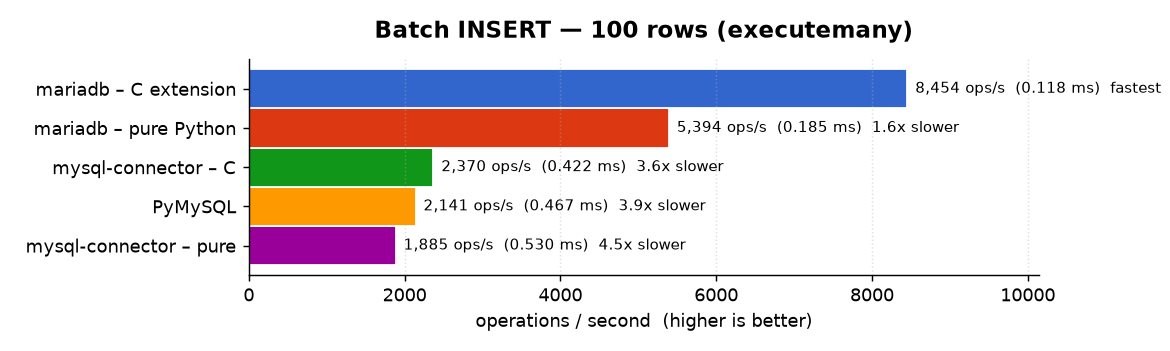
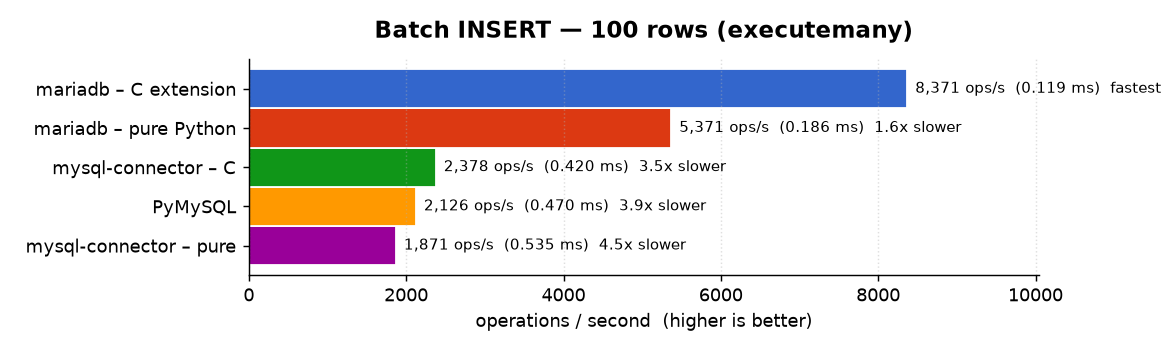
[misc] refresh benchmark results

diff --git a/docs/benchmarks.md b/docs/benchmarks.md
@@ -13,20 +13,20 @@ with the commands under [Reproducing](#reproducing).
 ## TL;DR
 
 The `mariadb` **C extension is the fastest driver in almost every benchmark**;
-the only exceptions are the bare `DO` round-trips (no result set to parse),
-where the pure-Python driver matches it. The pure-Python `mariadb`
+the only exception is the bare `DO 1` round-trip (no result set to parse),
+where the pure-Python driver edges it. The pure-Python `mariadb`
 implementation is the **fastest pure-Python driver in every benchmark**, and on
 result-set parsing it now **matches or beats MySQL Connector/Python's C
-extension** — e.g. `SELECT 100 columns` (7,435 vs 7,303 ops/s, text). Selected
+extension** — e.g. `SELECT 100 columns` (7,226 vs 6,847 ops/s, text). Selected
 results (operations per second, higher is better):
 
 | Workload | mariadb (C) | vs pure-Python `mariadb` | vs MySQL Connector/C |
 |---|---|---|---|
-| `SELECT 1` (simple query) | **85,508 ops/s** | 1.6× faster | 2.4× faster |
-| `SELECT 1000 rows` (binary) | **6,259 ops/s** | 7.7× faster | 4.2× faster |
-| `SELECT 100 columns` (binary) | **13,624 ops/s** | 2.2× faster | 2.5× faster |
-| `DO 1000 params` (binary) | **2,721 ops/s** | 2.0× faster | 36× faster |
-| Batch `INSERT` (100 rows) | **8,454 ops/s** | 1.6× faster | 3.6× faster |
+| `SELECT 1` (simple query) | **84,748 ops/s** | 1.7× faster | 2.5× faster |
+| `SELECT 1000 rows` (binary) | **6,159 ops/s** | 7.4× faster | 4.3× faster |
+| `SELECT 100 columns` (binary) | **13,600 ops/s** | 2.3× faster | 2.5× faster |
+| `DO 1000 params` (binary) | **2,787 ops/s** | 2.0× faster | 37× faster |
+| Batch `INSERT` (100 rows) | **8,371 ops/s** | 1.6× faster | 3.5× faster |
 
 ## Environment
 
@@ -49,16 +49,16 @@ results (operations per second, higher is better):
 
 | Benchmark | mariadb – C extension | mariadb – pure Python | PyMySQL | mysql-connector – C | mysql-connector – pure |
 |---|---|---|---|---|---|
-| DO 1 — command round-trip | 101,753 ops/s (1.0x) | 103,308 ops/s **(fastest)** | 91,890 ops/s (1.1x) | 52,438 ops/s (2.0x) | 31,414 ops/s (3.3x) |
-| SELECT 1 — simple query | 85,508 ops/s **(fastest)** | 52,596 ops/s (1.6x) | 43,679 ops/s (2.0x) | 34,932 ops/s (2.4x) | 18,266 ops/s (4.7x) |
-| INSERT — mixed types (single row) | 34,305 ops/s **(fastest)** | 30,269 ops/s (1.1x) | 26,165 ops/s (1.3x) | 30,360 ops/s (1.1x) | 17,693 ops/s (1.9x) |
-| Batch INSERT — 100 rows (executemany) | 8,454 ops/s **(fastest)** | 5,394 ops/s (1.6x) | 2,141 ops/s (3.9x) | 2,370 ops/s (3.6x) | 1,885 ops/s (4.5x) |
-| SELECT 1000 rows — binary protocol | 6,259 ops/s **(fastest)** | 818 ops/s (7.7x) | – | 1,490 ops/s (4.2x) | 287 ops/s (21.8x) |
-| SELECT 1000 rows — text protocol | 6,781 ops/s **(fastest)** | 1,049 ops/s (6.5x) | 541 ops/s (12.5x) | 1,633 ops/s (4.2x) | 355 ops/s (19.1x) |
-| SELECT 100 columns — binary protocol | 13,624 ops/s **(fastest)** | 6,170 ops/s (2.2x) | – | 5,511 ops/s (2.5x) | 1,230 ops/s (11.1x) |
-| SELECT 100 columns — text protocol | 18,113 ops/s **(fastest)** | 7,435 ops/s (2.4x) | 2,543 ops/s (7.1x) | 7,303 ops/s (2.5x) | 2,362 ops/s (7.7x) |
-| DO 1000 params — binary protocol | 2,721 ops/s **(fastest)** | 1,394 ops/s (2.0x) | – | 76 ops/s (35.8x) | 59 ops/s (46.2x) |
-| DO 1000 params — text protocol | 4,082 ops/s **(fastest)** | 4,066 ops/s (1.0x) | 2,187 ops/s (1.9x) | 2,870 ops/s (1.4x) | 1,100 ops/s (3.7x) |
+| DO 1 — command round-trip | 103,634 ops/s (1.0x) | 104,329 ops/s **(fastest)** | 89,333 ops/s (1.2x) | 50,807 ops/s (2.1x) | 28,999 ops/s (3.6x) |
+| SELECT 1 — simple query | 84,748 ops/s **(fastest)** | 50,886 ops/s (1.7x) | 42,994 ops/s (2.0x) | 33,837 ops/s (2.5x) | 18,129 ops/s (4.7x) |
+| INSERT — mixed types (single row) | 34,520 ops/s **(fastest)** | 30,123 ops/s (1.1x) | 26,227 ops/s (1.3x) | 29,508 ops/s (1.2x) | 17,484 ops/s (2.0x) |
+| Batch INSERT — 100 rows (executemany) | 8,371 ops/s **(fastest)** | 5,371 ops/s (1.6x) | 2,126 ops/s (3.9x) | 2,378 ops/s (3.5x) | 1,871 ops/s (4.5x) |
+| SELECT 1000 rows — binary protocol | 6,159 ops/s **(fastest)** | 837 ops/s (7.4x) | – | 1,442 ops/s (4.3x) | 281 ops/s (21.9x) |
+| SELECT 1000 rows — text protocol | 6,649 ops/s **(fastest)** | 1,017 ops/s (6.5x) | 529 ops/s (12.6x) | 1,562 ops/s (4.3x) | 340 ops/s (19.6x) |
+| SELECT 100 columns — binary protocol | 13,600 ops/s **(fastest)** | 6,013 ops/s (2.3x) | – | 5,451 ops/s (2.5x) | 1,205 ops/s (11.3x) |
+| SELECT 100 columns — text protocol | 18,028 ops/s **(fastest)** | 7,226 ops/s (2.5x) | 2,526 ops/s (7.1x) | 6,847 ops/s (2.6x) | 2,326 ops/s (7.7x) |
+| DO 1000 params — binary protocol | 2,787 ops/s **(fastest)** | 1,364 ops/s (2.0x) | – | 75 ops/s (37.1x) | 58 ops/s (48.4x) |
+| DO 1000 params — text protocol | 4,087 ops/s **(fastest)** | 4,001 ops/s (1.0x) | 2,223 ops/s (1.8x) | 2,787 ops/s (1.5x) | 1,049 ops/s (3.9x) |
 
 *(Multiplier in parentheses is how much slower than the fastest driver for that row.)*
 

diff --git a/docs/benchmarks/comparison_table.md b/docs/benchmarks/comparison_table.md
@@ -1,12 +1,12 @@
 | Benchmark | mariadb – C extension | mariadb – pure Python | PyMySQL | mysql-connector – C | mysql-connector – pure |
 |---|---|---|---|---|---|
-| DO 1 — command round-trip | 101,753 ops/s (1.0x) | 103,308 ops/s **(fastest)** | 91,890 ops/s (1.1x) | 52,438 ops/s (2.0x) | 31,414 ops/s (3.3x) |
-| SELECT 1 — simple query | 85,508 ops/s **(fastest)** | 52,596 ops/s (1.6x) | 43,679 ops/s (2.0x) | 34,932 ops/s (2.4x) | 18,266 ops/s (4.7x) |
-| INSERT — mixed types (single row) | 34,305 ops/s **(fastest)** | 30,269 ops/s (1.1x) | 26,165 ops/s (1.3x) | 30,360 ops/s (1.1x) | 17,693 ops/s (1.9x) |
-| Batch INSERT — 100 rows (executemany) | 8,454 ops/s **(fastest)** | 5,394 ops/s (1.6x) | 2,141 ops/s (3.9x) | 2,370 ops/s (3.6x) | 1,885 ops/s (4.5x) |
-| SELECT 1000 rows — binary protocol | 6,259 ops/s **(fastest)** | 818 ops/s (7.7x) | – | 1,490 ops/s (4.2x) | 287 ops/s (21.8x) |
-| SELECT 1000 rows — text protocol | 6,781 ops/s **(fastest)** | 1,049 ops/s (6.5x) | 541 ops/s (12.5x) | 1,633 ops/s (4.2x) | 355 ops/s (19.1x) |
-| SELECT 100 columns — binary protocol | 13,624 ops/s **(fastest)** | 6,170 ops/s (2.2x) | – | 5,511 ops/s (2.5x) | 1,230 ops/s (11.1x) |
-| SELECT 100 columns — text protocol | 18,113 ops/s **(fastest)** | 7,435 ops/s (2.4x) | 2,543 ops/s (7.1x) | 7,303 ops/s (2.5x) | 2,362 ops/s (7.7x) |
-| DO 1000 params — binary protocol | 2,721 ops/s **(fastest)** | 1,394 ops/s (2.0x) | – | 76 ops/s (35.8x) | 59 ops/s (46.2x) |
-| DO 1000 params — text protocol | 4,082 ops/s **(fastest)** | 4,066 ops/s (1.0x) | 2,187 ops/s (1.9x) | 2,870 ops/s (1.4x) | 1,100 ops/s (3.7x) |
+| DO 1 — command round-trip | 103,634 ops/s (1.0x) | 104,329 ops/s **(fastest)** | 89,333 ops/s (1.2x) | 50,807 ops/s (2.1x) | 28,999 ops/s (3.6x) |
+| SELECT 1 — simple query | 84,748 ops/s **(fastest)** | 50,886 ops/s (1.7x) | 42,994 ops/s (2.0x) | 33,837 ops/s (2.5x) | 18,129 ops/s (4.7x) |
+| INSERT — mixed types (single row) | 34,520 ops/s **(fastest)** | 30,123 ops/s (1.1x) | 26,227 ops/s (1.3x) | 29,508 ops/s (1.2x) | 17,484 ops/s (2.0x) |
+| Batch INSERT — 100 rows (executemany) | 8,371 ops/s **(fastest)** | 5,371 ops/s (1.6x) | 2,126 ops/s (3.9x) | 2,378 ops/s (3.5x) | 1,871 ops/s (4.5x) |
+| SELECT 1000 rows — binary protocol | 6,159 ops/s **(fastest)** | 837 ops/s (7.4x) | – | 1,442 ops/s (4.3x) | 281 ops/s (21.9x) |
+| SELECT 1000 rows — text protocol | 6,649 ops/s **(fastest)** | 1,017 ops/s (6.5x) | 529 ops/s (12.6x) | 1,562 ops/s (4.3x) | 340 ops/s (19.6x) |
+| SELECT 100 columns — binary protocol | 13,600 ops/s **(fastest)** | 6,013 ops/s (2.3x) | – | 5,451 ops/s (2.5x) | 1,205 ops/s (11.3x) |
+| SELECT 100 columns — text protocol | 18,028 ops/s **(fastest)** | 7,226 ops/s (2.5x) | 2,526 ops/s (7.1x) | 6,847 ops/s (2.6x) | 2,326 ops/s (7.7x) |
+| DO 1000 params — binary protocol | 2,787 ops/s **(fastest)** | 1,364 ops/s (2.0x) | – | 75 ops/s (37.1x) | 58 ops/s (48.4x) |
+| DO 1000 params — text protocol | 4,087 ops/s **(fastest)** | 4,001 ops/s (1.0x) | 2,223 ops/s (1.8x) | 2,787 ops/s (1.5x) | 1,049 ops/s (3.9x) |
